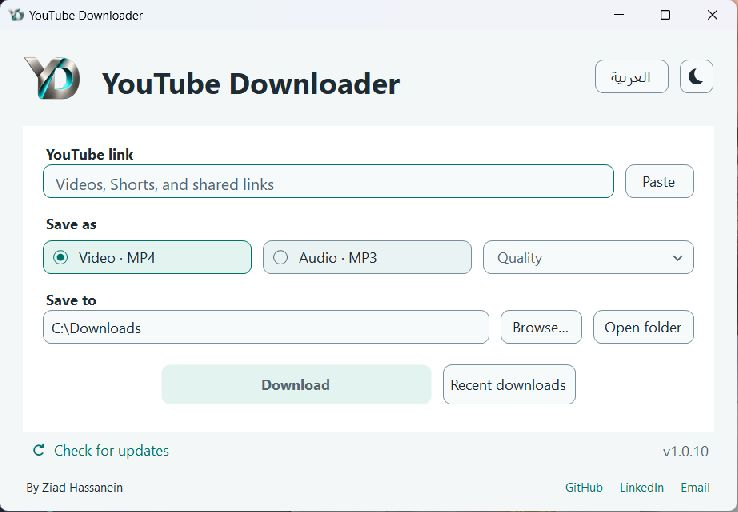
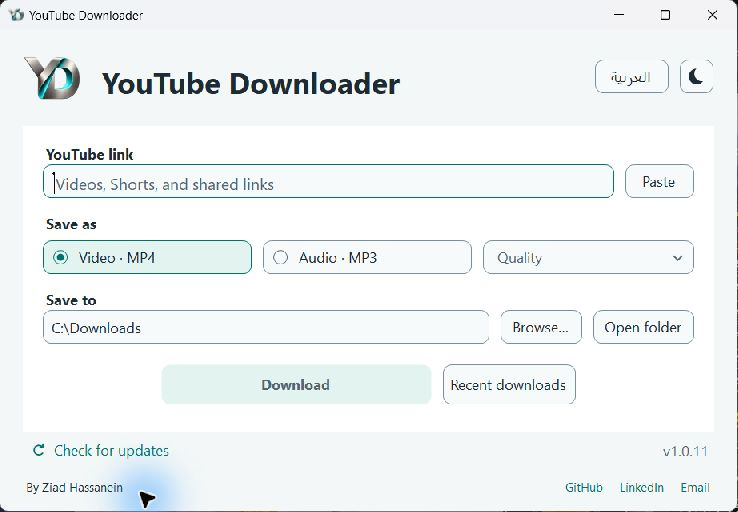
Place the update action on the right in Arabic

diff --git a/tests/InterfaceChecks.cs b/tests/InterfaceChecks.cs
@@ -56,7 +56,7 @@ internal static class InterfaceChecks {
                             if(!focused.Focused) throw new Exception("Language switching lost keyboard focus");
                             if(!Field<Button>(window,"paste").Visible || !Field<Label>(window,"toolsStatus").Visible || !url.Visible || !theme.Visible) throw new Exception("Language change hid an essential control");
                             var update=Field<ThemeButton>(window,"update"); var version=Field<Label>(window,"toolsStatus"); var footer=(TableLayoutPanel)update.Parent;
-                            if(footer.GetColumn(update)!=0 || footer.GetColumn(version)!=1 || update.IsArabic!=arabic || version.TextAlign!=ContentAlignment.MiddleRight || version.Text!="v"+AppUpdates.Current.ToString(3) || update.Left>=version.Left) throw new Exception("Language change moved the fixed update/version footer, broke text direction, or restored tool text");
+                            if(footer.GetColumn(update)!=(arabic ? 1 : 0) || footer.GetColumn(version)!=(arabic ? 0 : 1) || update.IsArabic!=arabic || version.TextAlign!=(arabic ? ContentAlignment.MiddleLeft : ContentAlignment.MiddleRight) || version.Text!="v"+AppUpdates.Current.ToString(3) || (arabic ? update.Left<=version.Left : update.Left>=version.Left)) throw new Exception("Language change did not mirror the update/version footer or restored tool text");
                             var credits=Field<TableLayoutPanel>(window,"authorRow"); var author=(Label)credits.Controls[0]; var socials=(FlowLayoutPanel)credits.Controls[1];
                             if(credits.GetColumn(author)!=0 || credits.GetColumn(socials)!=1 || author.TextAlign!=ContentAlignment.TopLeft || socials.FlowDirection!=FlowDirection.LeftToRight || author.Left>=socials.Left) throw new Exception("Language change moved the author credit from the left or reordered the social links");
                             if(Field<Button>(window,"cancel").Visible || Field<Button>(window,"openFile").Visible || Field<ThemeProgress>(window,"progress").Visible || Field<NoticePopover>(window,"updateNotice").Visible) throw new Exception("Language change revealed an inactive control");

diff --git a/src/App.cs b/src/App.cs
@@ -273,6 +273,14 @@ namespace YouTubeDownloader {
         private void ApplyDirection() {
             scroll.IsArabic=IsArabic;
             update.IsArabic=IsArabic;
+            int updateColumn=IsArabic ? 1 : 0,versionColumn=IsArabic ? 0 : 1;
+            updateRow.ColumnStyles[updateColumn].SizeType=SizeType.Absolute; updateRow.ColumnStyles[updateColumn].Width=update.Width;
+            updateRow.ColumnStyles[versionColumn].SizeType=SizeType.Percent; updateRow.ColumnStyles[versionColumn].Width=100;
+            updateRow.SetColumn(update,updateColumn); updateRow.SetColumn(toolsStatus,versionColumn);
+            update.Anchor=IsArabic ? AnchorStyles.Right : AnchorStyles.Left;
+            toolsStatus.TextAlign=IsArabic ? ContentAlignment.MiddleLeft : ContentAlignment.MiddleRight;
+            int versionGap=Math.Max(toolsStatus.Margin.Left,toolsStatus.Margin.Right);
+            toolsStatus.Margin=IsArabic ? new Padding(0,0,versionGap,0) : new Padding(versionGap,0,0,0);
             foreach(var saved in tableStates) {
                 for(int i=0;i<saved.Columns.Length;i++) {
                     var original=saved.Columns[IsArabic ? saved.Columns.Length-1-i : i];

diff --git a/src/AssemblyInfo.cs b/src/AssemblyInfo.cs
@@ -6,6 +6,6 @@ using System.Runtime.InteropServices;
 [assembly: AssemblyCompany("Ziad Hassanein")]
 [assembly: AssemblyProduct("YouTube Downloader")]
 [assembly: AssemblyCopyright("Copyright © 2026 Ziad Hassanein")]
-[assembly: AssemblyVersion("1.0.10.0")]
-[assembly: AssemblyFileVersion("1.0.10.0")]
+[assembly: AssemblyVersion("1.0.11.0")]
+[assembly: AssemblyFileVersion("1.0.11.0")]
 [assembly: ComVisible(false)]

diff --git a/README.md b/README.md
@@ -16,7 +16,7 @@ A desktop app for saving YouTube videos as MP4 or extracting MP3 audio. Paste a 
 
 ## Get started
 
-1. Download `YouTubeDownloader-v1.0.10-windows-x64.zip` from the release page.
+1. Download `YouTubeDownloader-v1.0.11-windows-x64.zip` from the release page.
 2. Extract the ZIP to a writable folder.
 3. If yt-dlp, FFmpeg, or Deno are missing, run `SetupTools.cmd` once. It installs only missing tools through Windows Package Manager.
 4. Open `YouTubeDownloader.exe`, paste a video link, and wait for its available qualities to appear.
@@ -45,7 +45,7 @@ Windows 10/11 x64 and .NET Framework 4.8 are required. Windows 11 includes the r
 - Refined quality dropdown with a larger chevron, themed rounded options, and a checkmark for the current selection.
 - Automatic checks on paste, a helpful link placeholder, and concise errors with recovery steps.
 - Clear feedback when the app is up to date or an update check fails.
-- A quiet update action with crisp refresh/download icons on the left and a simple version label on the right in both languages.
+- A quiet update action with crisp refresh/download icons: left in English, right in Arabic, with the version on the opposite side.
 - Author credit stays on the left and social links stay on the right in both languages.
 - Theme-matched scrolling, anchored folder/update popovers, and automatic message dismissal after five seconds.
 - A larger transparent YD mark in the app header and taskbar.
